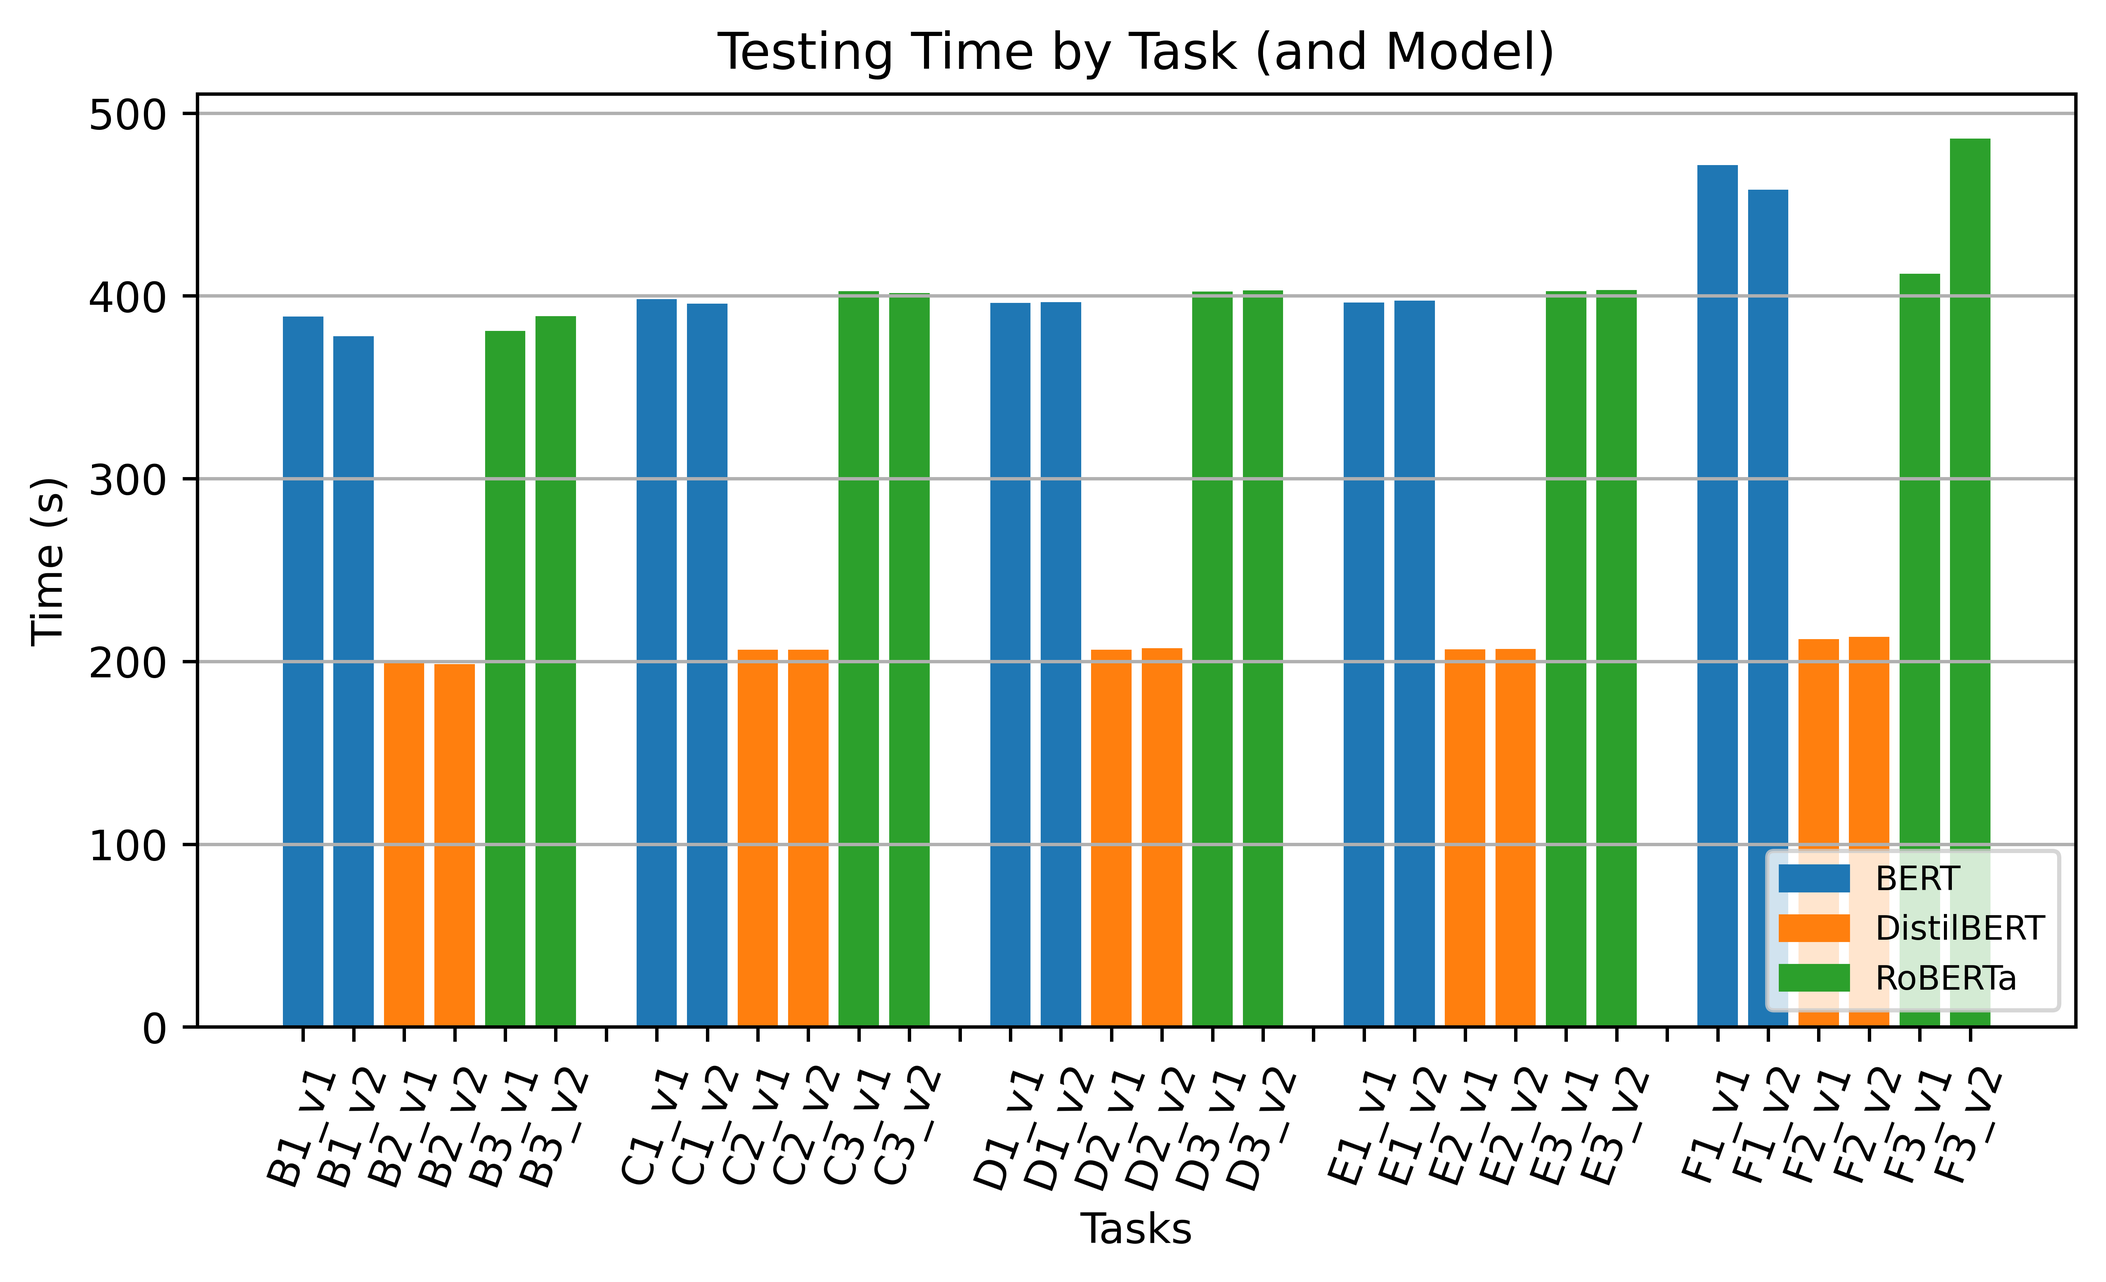
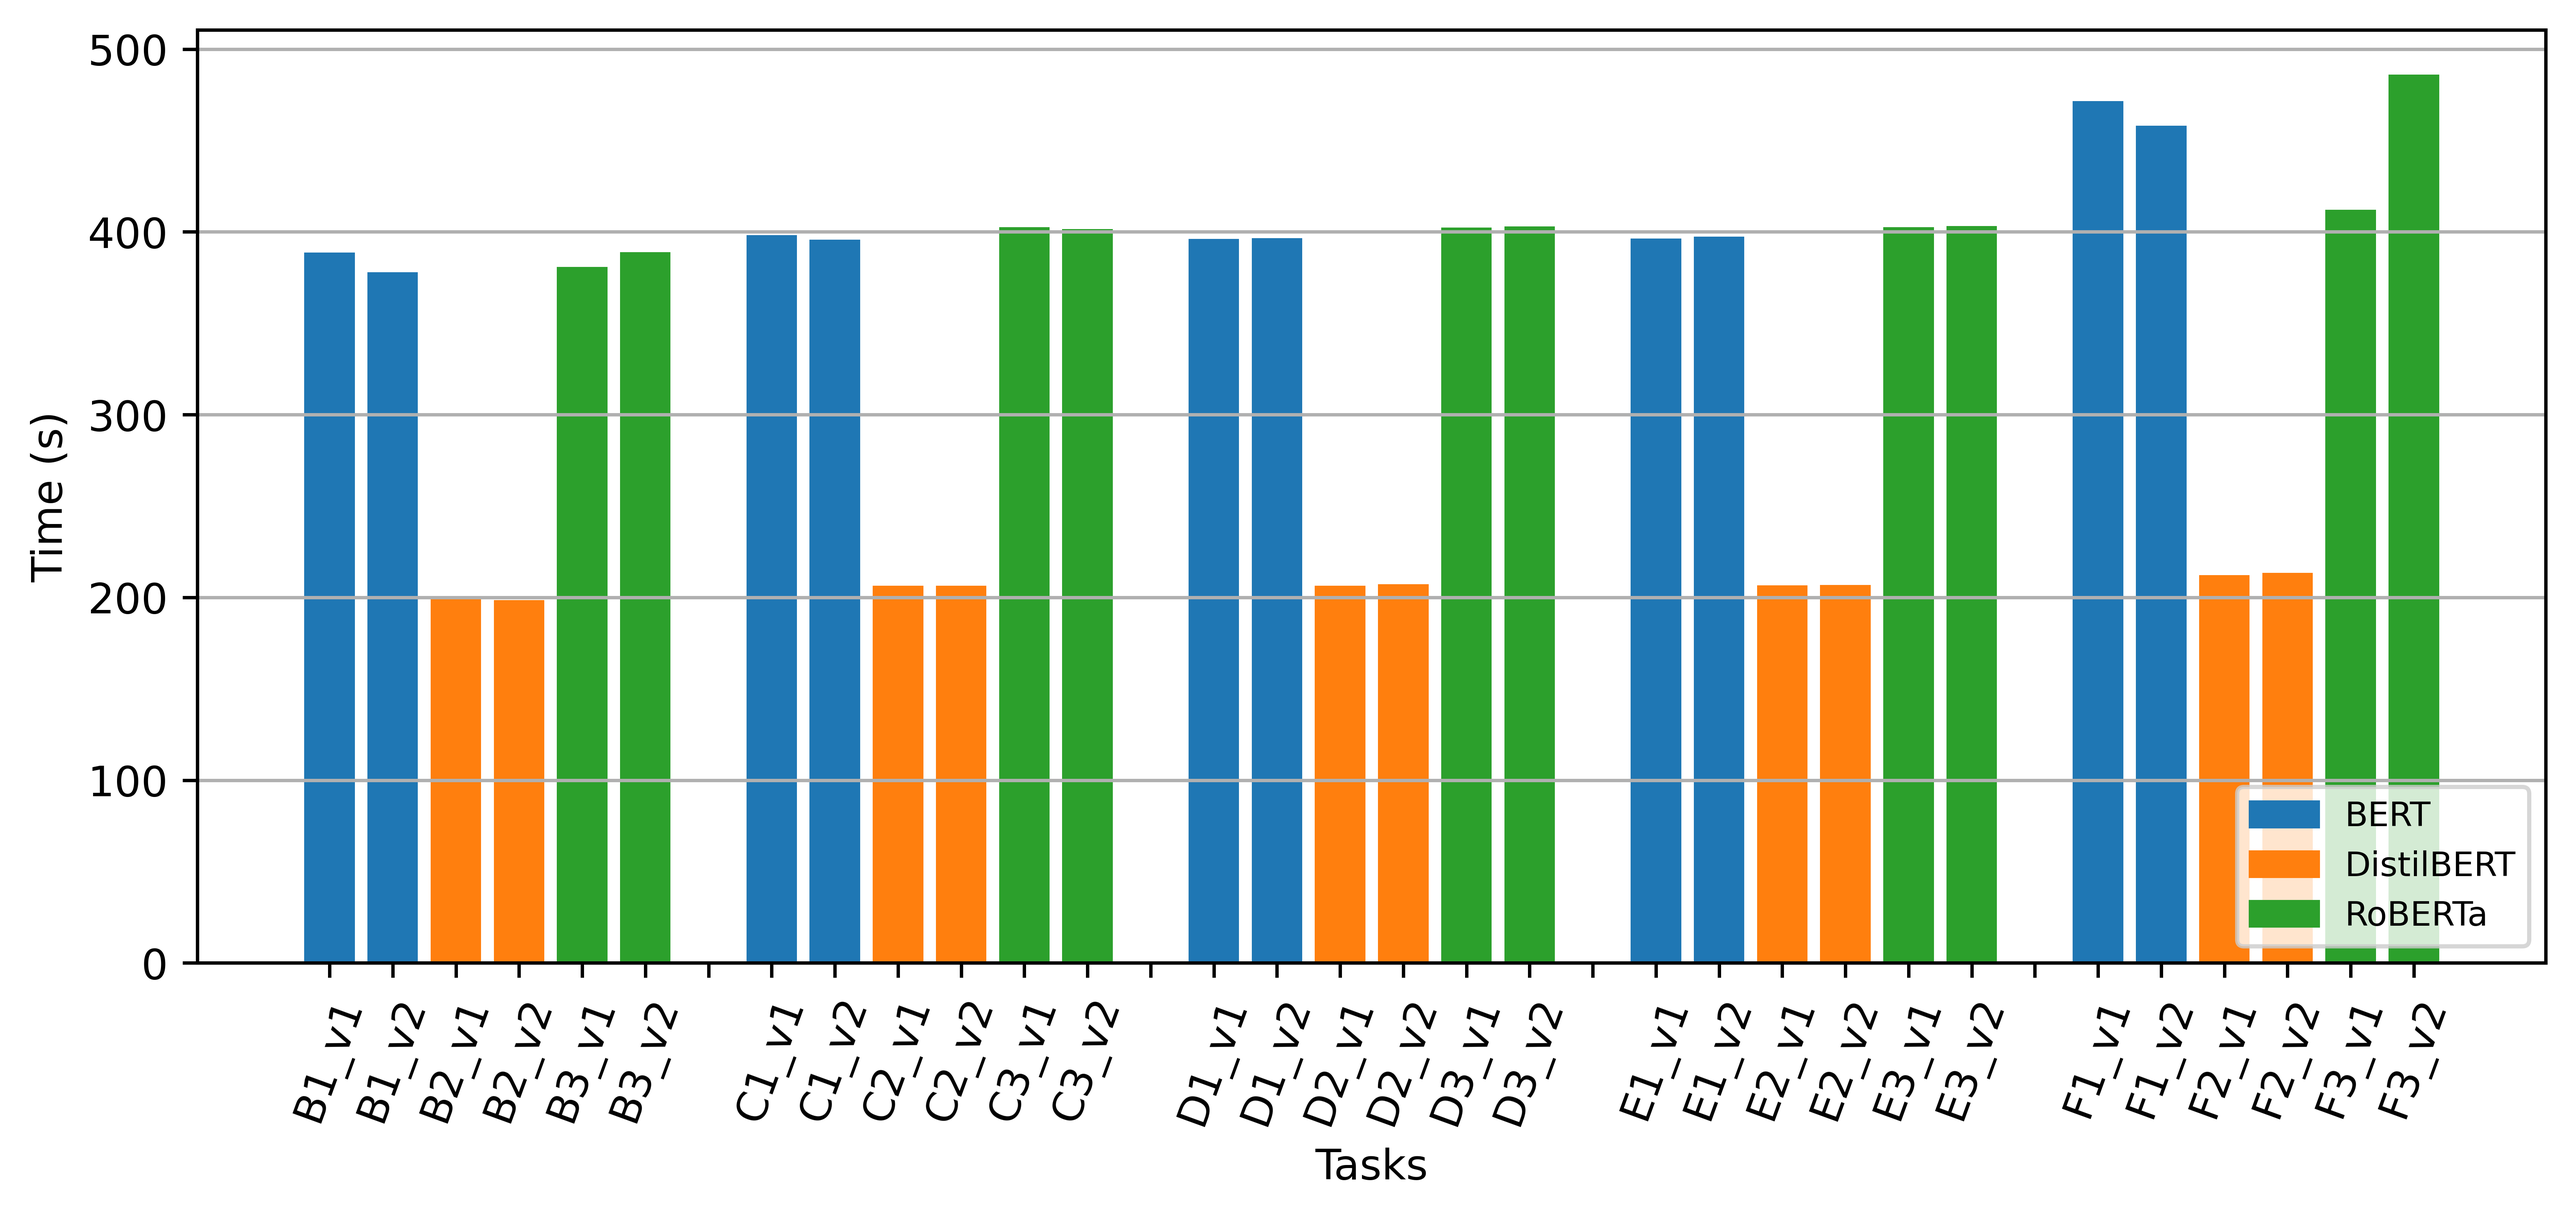
Update summary plots

Changed region(s): [[0.0, 0.1554, 0.9955, 0.9947], [0.0311, 0.0, 0.9955, 0.1554]]

diff --git a/B/plotter.py b/B/plotter.py
@@ -122,7 +122,7 @@ class Plotter:
             0.9286,
         ]
 
-        fig = plt.figure(figsize=(8, 4))
+        fig = plt.figure(figsize=(10, 4))
         plt.grid(axis="y")
         plt.bar(tasks, testing_accuracy, align="center", width=0.8, color=colors)
         plt.ylim([0.9, 0.945])
@@ -139,7 +139,7 @@ class Plotter:
         )
         plt.xlabel("Tasks")
         plt.ylabel("Testing Accuracy")
-        plt.title("Testing Accuracy by Task (and Model)")
+        #  ("Testing Accuracy by Task (and Model)")
 
         fig.savefig(
             os.path.join(self.plots_dir, "Summary - Testing Accuracy.png"),
@@ -190,7 +190,7 @@ class Plotter:
             0.93155,
         ]
 
-        fig = plt.figure(figsize=(8, 4))
+        fig = plt.figure(figsize=(10, 4))
         plt.grid(axis="y")
         plt.bar(tasks, validation_accuracy, align="center", width=0.8, color=colors)
         plt.ylim([0.9, 0.945])
@@ -207,7 +207,7 @@ class Plotter:
         )
         plt.xlabel("Tasks")
         plt.ylabel("Validation Accuracy")
-        plt.title("Validation Accuracy by Task (and Model)")
+        # plt.title("Validation Accuracy by Task (and Model)")
 
         fig.savefig(
             os.path.join(self.plots_dir, "Summary - Validation Accuracy.png"),
@@ -258,7 +258,7 @@ class Plotter:
             0.9286,
         ]
 
-        fig = plt.figure(figsize=(8, 4))
+        fig = plt.figure(figsize=(10, 4))
         plt.grid(axis="y")
         plt.bar(tasks, testing_f1, align="center", width=0.8, color=colors)
         plt.ylim([0.9, 0.945])
@@ -272,7 +272,7 @@ class Plotter:
         plt.legend(handles=patches, loc="lower right", prop={"size": 8})
         plt.xlabel("Tasks")
         plt.ylabel("F1 Score")
-        plt.title("Testing F1 Scores by Task (and Model)")
+        # plt.title("Testing F1 Scores by Task (and Model)")
 
         fig.savefig(
             os.path.join(self.plots_dir, "Summary - Testing F1.png"),
@@ -321,7 +321,7 @@ class Plotter:
             616.78,
         ]
 
-        fig = plt.figure(figsize=(8, 4))
+        fig = plt.figure(figsize=(10, 4))
         plt.grid(axis="y")
         plt.bar(
             tasks[2:], time_per_ft_epoch, align="center", width=0.8, color=colors[2:]
@@ -330,7 +330,7 @@ class Plotter:
         plt.legend(handles=patches[1:], loc="upper right", prop={"size": 8})
         plt.xlabel("Tasks")
         plt.ylabel("Time (s)")
-        plt.title("Fine Tuning Time Per Epoch by Task (and Model)")
+        # plt.title("Fine Tuning Time Per Epoch by Task (and Model)")
 
         fig.savefig(
             os.path.join(self.plots_dir, "Summary - FT Time per Epoch.png"),
@@ -379,14 +379,14 @@ class Plotter:
             486.09,
         ]
 
-        fig = plt.figure(figsize=(8, 4))
+        fig = plt.figure(figsize=(10, 4))
         plt.grid(axis="y")
         plt.bar(tasks[2:], testing_time, align="center", width=0.8, color=colors[2:])
         plt.xticks(tasks[2:], rotation=70)
         plt.legend(handles=patches[1:], loc="lower right", prop={"size": 8})
         plt.xlabel("Tasks")
         plt.ylabel("Time (s)")
-        plt.title("Testing Time by Task (and Model)")
+        # plt.title("Testing Time by Task (and Model)")
 
         fig.savefig(
             os.path.join(self.plots_dir, "Summary - Testing Time.png"),
@@ -435,7 +435,7 @@ class Plotter:
             9,
         ]
 
-        fig = plt.figure(figsize=(8, 4))
+        fig = plt.figure(figsize=(10, 4))
         plt.grid(axis="y")
         plt.bar(tasks[2:], selected_epoch, align="center", width=0.8, color=colors[2:])
         plt.xticks(tasks[2:], rotation=70)
@@ -443,10 +443,105 @@ class Plotter:
         plt.xlabel("Tasks")
         plt.ylabel("Epoch")
         plt.yticks([0, 1, 2, 3, 4, 5, 6, 7, 8, 9, 10, 11])
-        plt.title("Selected Epoch During Fine Tuning by Task (and Model)")
+        # plt.title("Selected Epoch During Fine Tuning by Task (and Model)")
 
         fig.savefig(
             os.path.join(self.plots_dir, "Summary - Selected Epoch.png"),
+            dpi=800,
+            format="png",
+            bbox_inches="tight",
+        )
+
+    def __create_time_taken_to_selected_epoch_plot(
+        self, colors: list, patches: list, tasks: list
+    ) -> None:
+        testing_time = [
+            388.60,
+            377.96,
+            199.68,
+            198.61,
+            380.74,
+            388.96,
+            0,
+            398.24,
+            395.82,
+            206.51,
+            206.46,
+            402.51,
+            401.49,
+            0,
+            396.23,
+            396.65,
+            206.45,
+            207.14,
+            402.27,
+            402.98,
+            0,
+            396.30,
+            397.41,
+            206.61,
+            206.80,
+            402.66,
+            403.22,
+            0,
+            471.60,
+            458.01,
+            212.18,
+            213.53,
+            412.04,
+            486.09,
+        ]
+
+        selected_epoch = [
+            1,
+            1,
+            1,
+            2,
+            1,
+            1,
+            0,
+            9,
+            10,
+            7,
+            9,
+            7,
+            9,
+            0,
+            10,
+            10,
+            7,
+            10,
+            7,
+            9,
+            0,
+            8,
+            10,
+            5,
+            9,
+            7,
+            9,
+            0,
+            7,
+            10,
+            7,
+            9,
+            7,
+            9,
+        ]
+
+        time_taken = [x * y for x, y in zip(testing_time, selected_epoch)]
+
+        fig = plt.figure(figsize=(10, 4))
+        plt.grid(axis="y")
+        plt.bar(tasks[2:], time_taken, align="center", width=0.8, color=colors[2:])
+        plt.xticks(tasks[2:], rotation=70)
+        plt.legend(handles=patches[1:], loc="lower right", prop={"size": 8})
+        plt.xlabel("Tasks")
+        plt.ylabel("Time (s)")
+        # plt.title("Testing Time by Task (and Model)")
+
+        fig.savefig(
+            os.path.join(self.plots_dir, "Summary - Time Taken to Selected Epoch.png"),
             dpi=800,
             format="png",
             bbox_inches="tight",
@@ -558,5 +653,9 @@ class Plotter:
         )
 
         self.__create_selected_epoch_summary_plot(
+            colors=colors, patches=patches, tasks=tasks
+        )
+
+        self.__create_time_taken_to_selected_epoch_plot(
             colors=colors, patches=patches, tasks=tasks
         )
